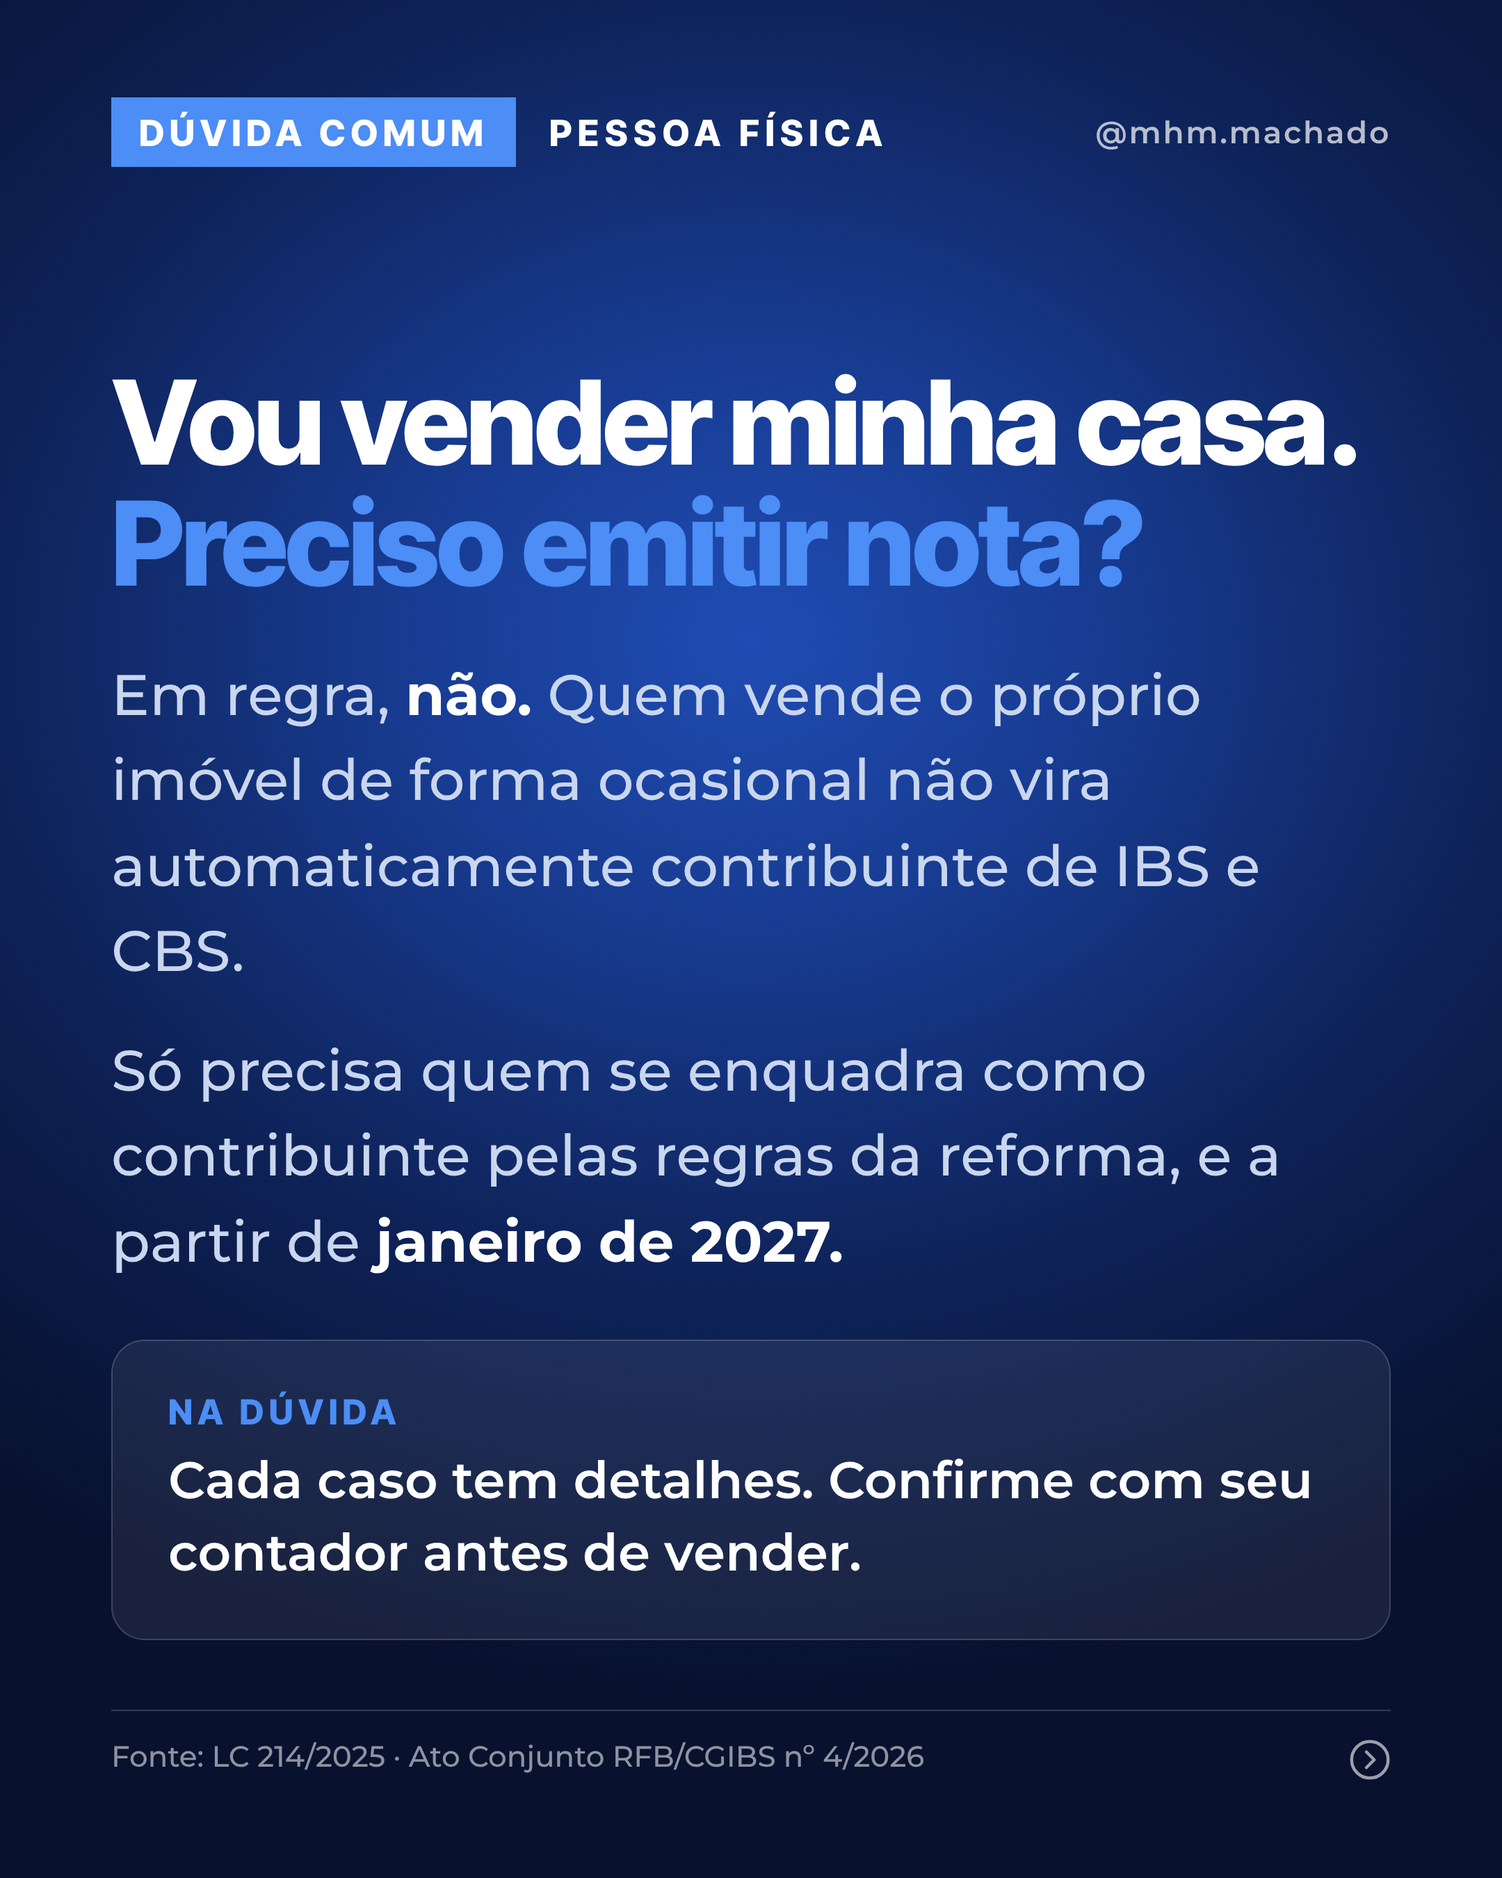
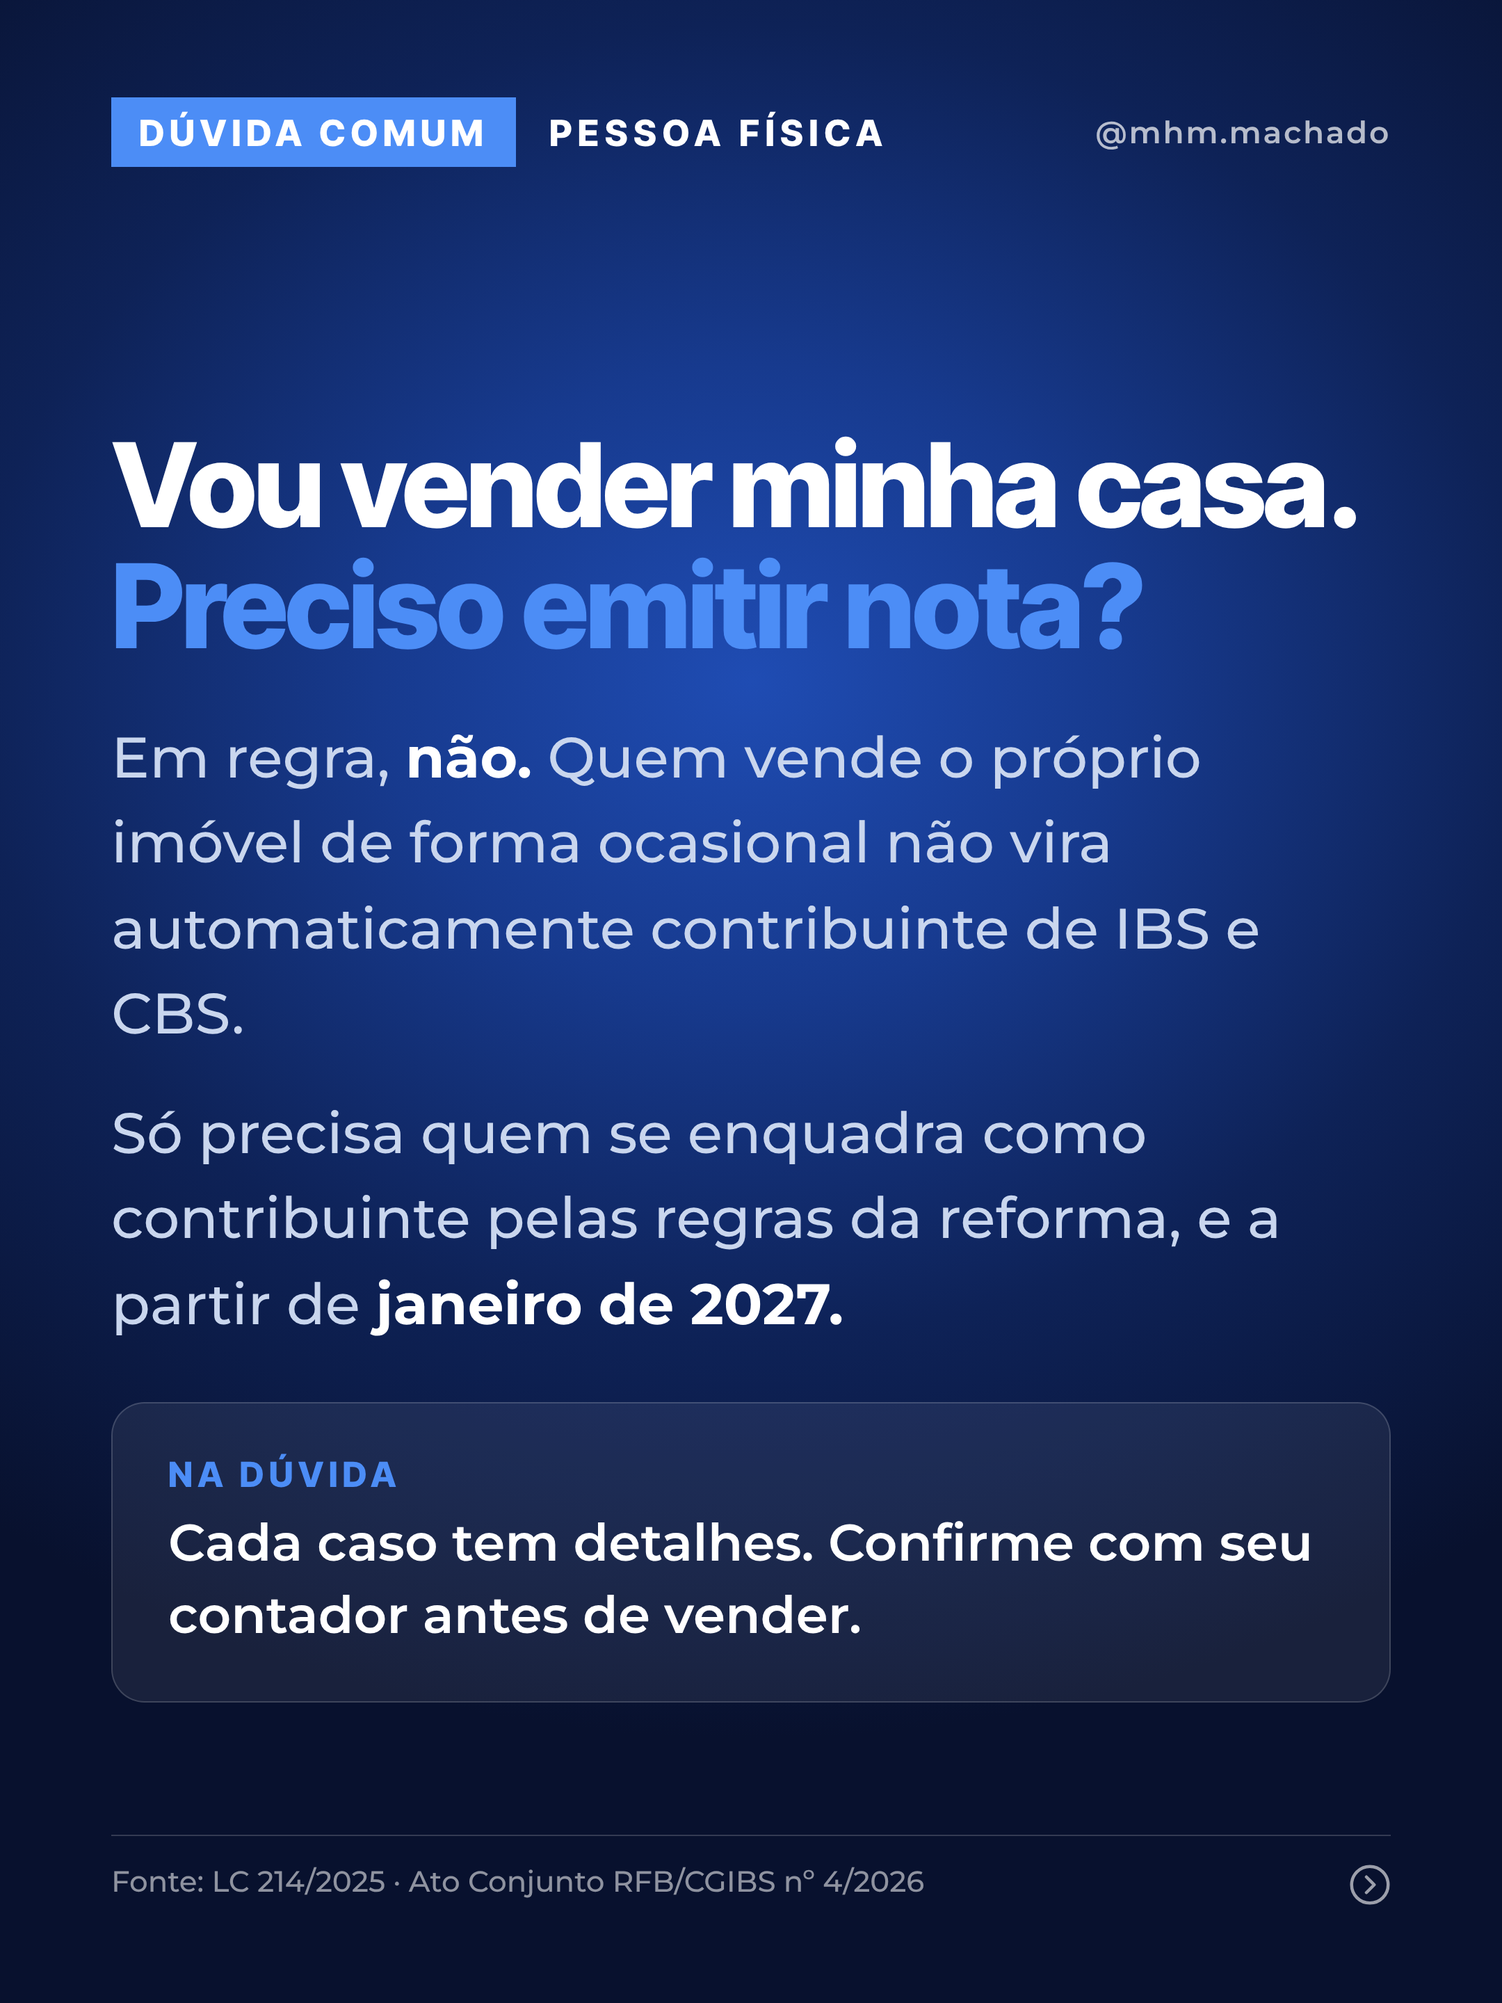
carrossel: padrão 1080x1440 (3:4) pedido do dono; NF-e e eleição convertidos
Instagram aceita 3:4 desde 2025 e a grade é 3:4. Posts pela API (imóvel/Windsor) seguem 4:5.

Claude-Session: https://claude.ai/code/session_018X91MFfPMRMPYSAfb3KdfT

diff --git a/docs/posicionamento/carrosseis/2026-10-23-nfe-abi/laminas.html b/docs/posicionamento/carrosseis/2026-10-23-nfe-abi/laminas.html
@@ -6,7 +6,7 @@
 <style>
 :root{--azul:#4C8DF6;--txt:#C9D6EE}
 *{box-sizing:border-box;margin:0;padding:0} body{background:#000}
-.lamina{position:relative;width:1080px;height:1350px;overflow:hidden;font-family:'Inter Tight',sans-serif;color:#fff;
+.lamina{position:relative;width:1080px;height:1440px;overflow:hidden;font-family:'Inter Tight',sans-serif;color:#fff;
  background:radial-gradient(900px 760px at 50% 34%, #1F4CB3 0%, #173A8E 30%, #0E2257 62%, #08112E 100%)}
 .topo{position:absolute;left:80px;right:80px;top:70px;display:flex;align-items:center;gap:24px;z-index:5}
 .tag{background:var(--azul);color:#fff;font-weight:800;font-size:26px;letter-spacing:.14em;padding:10px 20px 9px}
@@ -25,12 +25,12 @@ p.t{font-family:Montserrat;font-size:41px;line-height:1.5;font-weight:500;color:
 
 <!-- 1 CAPA (dono, 2026-10-23: mais misteriosa e urgente, "Receita Federal" escrito, foto enviada pelo dono de agente da Receita, ampliada 4x; "Entenda" com seta) -->
 <section class="lamina" style="background:#08112E">
- <img src="img/capa-agente.jpg" style="position:absolute;left:0;top:0;width:1080px;height:960px;object-fit:cover">
- <div style="position:absolute;left:0;top:0;width:1080px;height:960px;background:rgba(31,76,179,.30);mix-blend-mode:color"></div>
- <div style="position:absolute;left:0;top:0;width:1080px;height:962px;background:linear-gradient(180deg,rgba(8,17,46,.75) 0%,rgba(8,17,46,.05) 18%,rgba(8,17,46,.0) 45%,rgba(8,17,46,.55) 75%,#08112E 100%)"></div>
+ <img src="img/capa-agente.jpg" style="position:absolute;left:0;top:0;width:1080px;height:1040px;object-fit:cover">
+ <div style="position:absolute;left:0;top:0;width:1080px;height:1040px;background:rgba(31,76,179,.30);mix-blend-mode:color"></div>
+ <div style="position:absolute;left:0;top:0;width:1080px;height:1042px;background:linear-gradient(180deg,rgba(8,17,46,.75) 0%,rgba(8,17,46,.05) 18%,rgba(8,17,46,.0) 45%,rgba(8,17,46,.55) 75%,#08112E 100%)"></div>
  <div style="position:absolute;inset:0;background:radial-gradient(110% 80% at 50% 32%,transparent 45%,rgba(0,0,0,.5) 100%)"></div>
  <div class="topo"><span class="tag">URGENTE</span><span class="sec">REFORMA TRIBUTÁRIA</span><span class="handle">@mhm.machado</span></div>
- <div class="b" style="top:800px">
+ <div class="b" style="top:880px">
   <h2 style="font-size:88px;line-height:1.02"><em>Receita Federal</em> muda a venda de imóveis em 1º&nbsp;de&nbsp;dezembro.</h2>
   <p style="font-family:Montserrat;font-size:36px;line-height:1.35;font-weight:500;color:var(--txt);margin-top:22px">E quase ninguém sabe o que vem por aí.</p>
  </div>
@@ -42,7 +42,7 @@ p.t{font-family:Montserrat;font-size:41px;line-height:1.5;font-weight:500;color:
 <!-- 2 O QUE É -->
 <section class="lamina">
  <div class="topo"><span class="tag">ENTENDA</span><span class="sec">O QUE É</span><span class="handle">@mhm.machado</span></div>
- <div class="b" style="top:250px">
+ <div class="b" style="top:295px">
   <h2>O nome é <em>NF-e ABI</em></h2>
   <p class="t" style="margin-top:30px"><b>Nota Fiscal Eletrônica de Alienação de Bens Imóveis</b> (modelo 77). "Alienação" é a transferência do imóvel: venda, permuta ou cessão de direitos.</p>
   <div class="box" style="margin-top:44px"><small>QUEM CRIOU</small><div>Receita Federal e o Comitê Gestor do IBS, dentro da Reforma Tributária (Lei Complementar 214/2025).</div></div>
@@ -54,7 +54,7 @@ p.t{font-family:Montserrat;font-size:41px;line-height:1.5;font-weight:500;color:
 <!-- 3 PARA QUE SERVE -->
 <section class="lamina">
  <div class="topo"><span class="tag">ENTENDA</span><span class="sec">PARA QUE SERVE</span><span class="handle">@mhm.machado</span></div>
- <div class="b" style="top:260px">
+ <div class="b" style="top:305px">
   <h2>Registra a venda <em>no sistema dos novos impostos</em></h2>
   <p class="t" style="margin-top:34px">Com a Reforma Tributária, a venda de imóvel por empresas passa a ter <b>IBS e CBS</b>. A nota informa a operação eletronicamente, como já acontece com outros produtos.</p>
   <div class="box" style="margin-top:44px"><small>O QUE NÃO MUDA</small><div>A nota <b style="color:var(--azul)">não substitui</b> a escritura nem o registro no cartório. Eles continuam obrigatórios.</div></div>
@@ -65,7 +65,7 @@ p.t{font-family:Montserrat;font-size:41px;line-height:1.5;font-weight:500;color:
 <!-- 4 QUEM EMITE -->
 <section class="lamina">
  <div class="topo"><span class="tag">PRAZOS</span><span class="sec">QUEM EMITE E QUANDO</span><span class="handle">@mhm.machado</span></div>
- <div class="b" style="top:250px">
+ <div class="b" style="top:295px">
   <div class="box" style="padding:40px"><small>1º DE DEZEMBRO DE 2026</small><div style="font-size:44px">Construtoras, incorporadoras, loteadoras e demais empresas do <b style="color:var(--azul)">regime regular</b> de IBS e CBS.</div></div>
   <div class="box" style="padding:40px;margin-top:28px"><small>1º DE JANEIRO DE 2027</small><div style="font-size:44px">Empresas do <b style="color:var(--azul)">Simples Nacional</b> e pessoas físicas que se enquadram como contribuintes.</div></div>
   <p class="t" style="margin-top:40px">Ou seja: em dezembro, quem começa são as <b>empresas do setor imobiliário.</b></p>
@@ -76,7 +76,7 @@ p.t{font-family:Montserrat;font-size:41px;line-height:1.5;font-weight:500;color:
 <!-- 5 PESSOA FÍSICA -->
 <section class="lamina">
  <div class="topo"><span class="tag">DÚVIDA COMUM</span><span class="sec">PESSOA FÍSICA</span><span class="handle">@mhm.machado</span></div>
- <div class="b" style="top:260px">
+ <div class="b" style="top:305px">
   <h2 style="font-size:84px">Vou vender minha casa. <em>Preciso emitir nota?</em></h2>
   <p class="t" style="margin-top:34px">Em regra, <b>não.</b> Quem vende o próprio imóvel de forma ocasional não vira automaticamente contribuinte de IBS e CBS.</p>
   <p class="t" style="margin-top:24px">Só precisa quem se enquadra como contribuinte pelas regras da reforma, e a partir de <b>janeiro de 2027.</b></p>
@@ -88,7 +88,7 @@ p.t{font-family:Montserrat;font-size:41px;line-height:1.5;font-weight:500;color:
 <!-- 6 PARA QUEM COMPRA -->
 <section class="lamina">
  <div class="topo"><span class="tag">NA PRÁTICA</span><span class="sec">PARA QUEM VAI COMPRAR</span><span class="handle">@mhm.machado</span></div>
- <div class="b" style="top:250px">
+ <div class="b" style="top:295px">
   <h2>E para quem vai comprar o <em>1º imóvel?</em></h2>
   <div class="box" style="margin-top:44px"><small>COMPRANDO DA CONSTRUTORA</small><div>Quem emite a nota é a construtora. Você não precisa fazer nada.</div></div>
   <div class="box" style="margin-top:22px"><small>FINANCIAMENTO</small><div>O caminho continua o mesmo: simulação, análise de crédito, contrato e registro.</div></div>
@@ -100,7 +100,7 @@ p.t{font-family:Montserrat;font-size:41px;line-height:1.5;font-weight:500;color:
 <!-- 7 ADIAMENTO -->
 <section class="lamina">
  <div class="topo"><span class="tag">FIQUE DE OLHO</span><span class="sec">PODE MUDAR?</span><span class="handle">@mhm.machado</span></div>
- <div class="b" style="top:280px">
+ <div class="b" style="top:325px">
   <h2>O setor pediu <em>adiamento</em></h2>
   <p class="t" style="margin-top:34px">Entidades como <b>CBIC, Secovi-SP, Abrainc e AELO</b> pediram mais prazo para as empresas adaptarem os sistemas.</p>
   <div class="box" style="margin-top:44px;padding:40px"><small>ATÉ 23/10/2026</small><div style="font-size:44px">A data oficial continua <b style="color:var(--azul)">1º de dezembro de 2026.</b></div></div>
@@ -112,9 +112,9 @@ p.t{font-family:Montserrat;font-size:41px;line-height:1.5;font-weight:500;color:
 <!-- 8 CTA -->
 <section class="lamina">
  <div style="position:absolute;right:-120px;top:420px;width:900px;height:900px;border-radius:50%;background:radial-gradient(circle,rgba(76,141,246,.25),transparent 65%)"></div>
- <img src="img/explicando.png" style="position:absolute;right:-170px;bottom:0;height:1000px;z-index:2;filter:drop-shadow(0 30px 50px rgba(0,0,0,.4))">
+ <img src="img/explicando.png" style="position:absolute;right:-180px;bottom:0;height:1070px;z-index:2;filter:drop-shadow(0 30px 50px rgba(0,0,0,.4))">
  <div class="topo"><span class="handle" style="margin-left:0">@mhm.machado</span></div>
- <div style="position:absolute;left:80px;top:300px;width:540px;z-index:3">
+ <div style="position:absolute;left:80px;top:340px;width:540px;z-index:3">
   <p style="font-family:Montserrat;font-size:40px;line-height:1.35;font-weight:600;color:var(--txt)">Vai comprar ou vender imóvel em Marília?</p>
   <h2 style="font-size:104px;margin-top:22px;white-space:nowrap">Me chama<br><em>na DM</em></h2>
   <p style="font-family:Montserrat;font-size:34px;line-height:1.4;font-weight:600;margin-top:26px">E salva este post para consultar quando precisar.</p>

diff --git a/docs/posicionamento/carrosseis/2026-10-24-eleicao-compre-imoveis/laminas.html b/docs/posicionamento/carrosseis/2026-10-24-eleicao-compre-imoveis/laminas.html
@@ -4,22 +4,22 @@
      (montagem de IA com pessoas reais + risco de associar a marca a um lado). Foto do dono (realista-hd/calma). -->
 <style>
 *{box-sizing:border-box;margin:0;padding:0} body{background:#000}
-.lamina{position:relative;width:1080px;height:1350px;overflow:hidden;font-family:Montserrat,sans-serif;color:#fff;
+.lamina{position:relative;width:1080px;height:1440px;overflow:hidden;font-family:Montserrat,sans-serif;color:#fff;
  background:radial-gradient(900px 760px at 50% 34%, #1F4CB3 0%, #173A8E 30%, #0E2257 62%, #08112E 100%)}
 em{font-style:normal;color:#4C8DF6}
 </style></head><body>
 <section class="lamina">
- <div style="position:absolute;left:50%;top:420px;transform:translateX(-50%);width:980px;height:980px;border-radius:50%;background:radial-gradient(circle,rgba(76,141,246,.30),transparent 65%)"></div>
+ <div style="position:absolute;left:50%;top:460px;transform:translateX(-50%);width:980px;height:980px;border-radius:50%;background:radial-gradient(circle,rgba(76,141,246,.30),transparent 65%)"></div>
  <div style="position:absolute;left:0;right:0;top:70px;text-align:center;font-size:22px;font-weight:600;letter-spacing:.12em;color:rgba(255,255,255,.7)">@MHM.MACHADO</div>
- <div style="position:absolute;left:60px;right:60px;top:130px;text-align:center;z-index:1">
+ <div style="position:absolute;left:60px;right:60px;top:150px;text-align:center;z-index:1">
   <p style="font-size:72px;font-weight:800;line-height:1.1;letter-spacing:-.02em">Não importa quem<br><em>ganhar</em> a eleição.</p>
  </div>
- <img src="img/calma.png" style="position:absolute;left:50%;transform:translateX(-50%);bottom:330px;height:740px;z-index:2;filter:drop-shadow(0 30px 50px rgba(0,0,0,.45))">
- <div style="position:absolute;left:0;right:0;bottom:330px;height:160px;z-index:3;background:linear-gradient(180deg,rgba(8,17,46,0),rgba(8,17,46,.9))"></div>
- <div style="position:absolute;left:40px;right:40px;top:905px;z-index:4;background:#4C8DF6;transform:rotate(-2deg);text-align:center;padding:10px 0 18px;box-shadow:0 20px 50px rgba(0,0,0,.45)">
+ <img src="img/calma.png" style="position:absolute;left:50%;transform:translateX(-50%);bottom:360px;height:790px;z-index:2;filter:drop-shadow(0 30px 50px rgba(0,0,0,.45))">
+ <div style="position:absolute;left:0;right:0;bottom:360px;height:160px;z-index:3;background:linear-gradient(180deg,rgba(8,17,46,0),rgba(8,17,46,.9))"></div>
+ <div style="position:absolute;left:40px;right:40px;top:965px;z-index:4;background:#4C8DF6;transform:rotate(-2deg);text-align:center;padding:10px 0 18px;box-shadow:0 20px 50px rgba(0,0,0,.45)">
   <div style="font-family:Anton,sans-serif;font-size:138px;line-height:1.18;text-transform:uppercase;letter-spacing:.005em;white-space:nowrap">Compre imóveis.</div>
  </div>
- <div style="position:absolute;left:60px;right:60px;top:1135px;text-align:center;z-index:4">
+ <div style="position:absolute;left:60px;right:60px;top:1205px;text-align:center;z-index:4">
   <p style="font-size:44px;font-weight:700;line-height:1.25">Não existe patrimônio mais<br><em>sólido</em> que o tijolo.</p>
  </div>
 </section>

diff --git a/.claude/design/tools/exportar-instagram.py b/.claude/design/tools/exportar-instagram.py
@@ -1,4 +1,4 @@
-"""Converte as lâminas renderizadas (PNG 2160x2700, --escala 2) em JPG 2160x2700, qualidade 95, sem subamostragem
+"""Converte as lâminas renderizadas (PNG 2160 de largura, --escala 2; padrão 2160x2880 = 3:4) em JPG do mesmo tamanho, qualidade 95, sem subamostragem
 de cor (texto colorido nítido). Dono, 2026-10-23: em 1080 px o texto parecia de baixa qualidade na tela do celular
 e na prévia do chat; em 2160 fica nítido e o Instagram reduz sozinho para 1080.
 Uso: python3 .claude/design/tools/exportar-instagram.py <pasta-do-carrossel>
@@ -9,8 +9,8 @@ pasta = sys.argv[1]
 saida = os.path.join(pasta, "instagram"); os.makedirs(saida, exist_ok=True)
 for f in sorted(glob.glob(os.path.join(pasta, "lamina-*.png"))):
     im = Image.open(f).convert("RGB")
-    if im.size != (2160, 2700):
-        im = im.resize((2160, 2700), Image.LANCZOS)
+    if im.width != 2160:  # mantém a proporção da lâmina (3:4 novo ou 4:5 antigo)
+        im = im.resize((2160, round(im.height * 2160 / im.width)), Image.LANCZOS)
     dst = os.path.join(saida, os.path.basename(f)[:-4] + ".jpg")
     im.save(dst, "JPEG", quality=95, subsampling=0, optimize=True, progressive=True)
     print(dst, os.path.getsize(dst) // 1024, "KB")

diff --git a/.claude/skills/carrossel/SKILL.md b/.claude/skills/carrossel/SKILL.md
@@ -1,6 +1,6 @@
 ---
 name: carrossel
-description: "Cria carrossel/post do Instagram de Matheus a partir de referências (prints/fotos de posts que ele gostou): recria a ESTRUTURA com o padrão dele (fundo preto, minimalista, azul da marca, foto + @mhm.machado no rodapé) e entrega PNG 1080x1350 + legenda. Use para \"cria um carrossel\", \"recria esse post\". Não publica."
+description: "Cria carrossel/post do Instagram de Matheus a partir de referências (prints/fotos de posts que ele gostou): recria a ESTRUTURA com o padrão dele (fundo preto, minimalista, azul da marca, foto + @mhm.machado no rodapé) e entrega JPG 3:4 (1080x1440, em 2x) + legenda. Use para \"cria um carrossel\", \"recria esse post\". Não publica."
 ---
 
 # Carrossel do Instagram a partir de referência
@@ -12,7 +12,7 @@ Agente: `marketing-posicionamento` (conteúdo orgânico). Nada é publicado: ent
 - Minimalista, muito respiro; texto branco; destaque em **azul da marca** (`**palavra**` no roteiro).
 - **Rodapé desligado por padrão** (dono, 2026-10-12): só colocar quando ele pedir (`"rodape": true`). Quando pedido: rodapé em toda lâmina no estilo do topo do perfil do Instagram: **foto em círculo com anel colorido** + **mhm.machado** com selo de verificado + "Corretor de Imóveis" — rodapé pequeno e discreto (pedido do dono, 2026-10-11) (o @ real; `@matheusmachadoimoveis` não existe).
 - Sem logo e sem numeração ("1/4") no topo (pedido do dono, 2026-10-11): a identidade é o rodapé. Se algum dia usar marca, só o símbolo oficial `public/assets/matheus-machado-symbol.png` (regra 10 do CLAUDE.md).
-- Formato 1080×1350 (4:5). Capa com gancho forte; 1 ideia por lâmina; última lâmina = chamada para ação.
+- **Formato 1080×1440 (3:4)** — padrão do dono desde 2026-10-25 (Instagram aceita 3:4 desde 2025 e a grade do perfil é 3:4): `.lamina{width:1080px;height:1440px}`. Exceção: post publicado pela API (Windsor/imóvel, `publicar-imovel`) continua 1080×1350 (4:5), porque a API só aceita de 4:5 a 1.91:1 e cortaria o 3:4. Capa com gancho forte; 1 ideia por lâmina; última lâmina = chamada para ação.
 
 ## Estilo do dono
 Leia `docs/posicionamento/ESTILO-CARROSSEL.md` (modelos que ele já postou, tipos de lâmina, ícones, linguagem). Posts antigos eram amarelos → hoje sempre azul.

diff --git a/docs/posicionamento/ESTILO-CARROSSEL.md b/docs/posicionamento/ESTILO-CARROSSEL.md
@@ -1,5 +1,7 @@
 # Estilo dos carrosséis de Matheus (@mhm.machado)
 
+**Medida padrão (dono, 2026-10-25): 1080×1440 (3:4)**, entregue em JPG 2160×2880. A grade do Instagram é 3:4 e o app aceita esse formato (anúncio de 2025). Post de imóvel publicado pela API (Windsor) continua 1080×1350, porque a API só aceita de 4:5 a 1.91:1.
+
 Aprendido dos posts já publicados (enviados pelo dono em 2026-10-11). Usado pelo `/carrossel`.
 
 ## Direção de design (pedido do dono, 2026-10-11: "mais leve, menos carregado, elegante e moderno")
